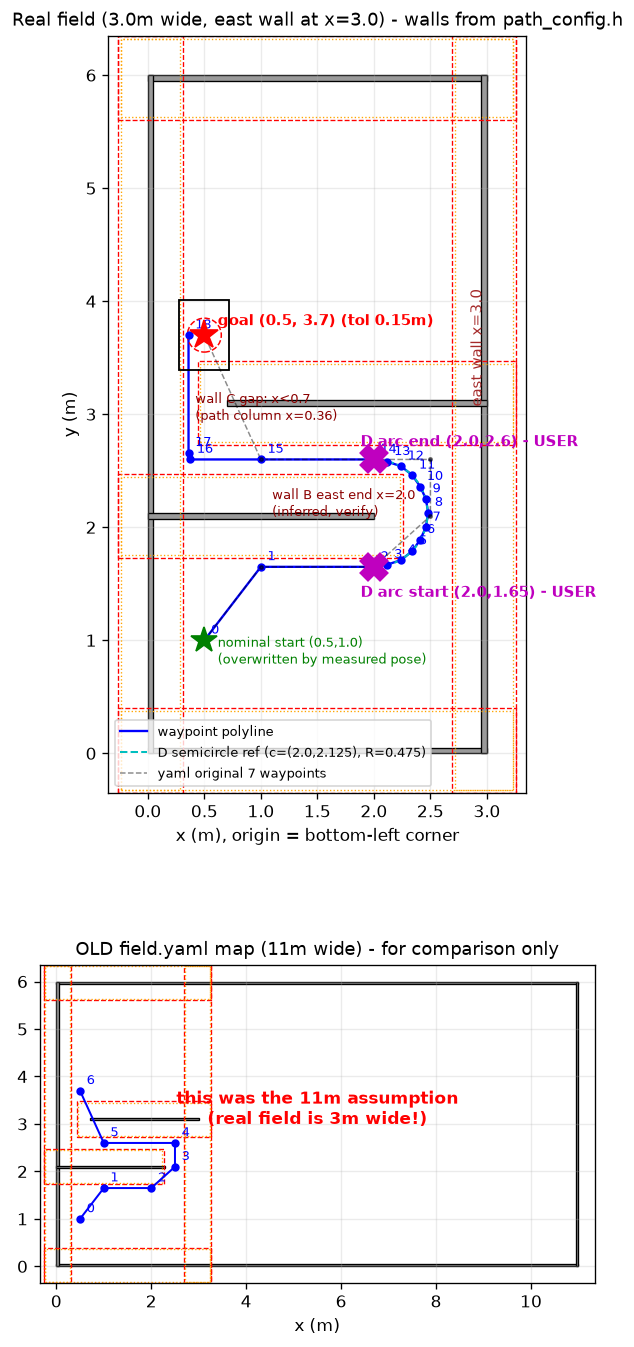
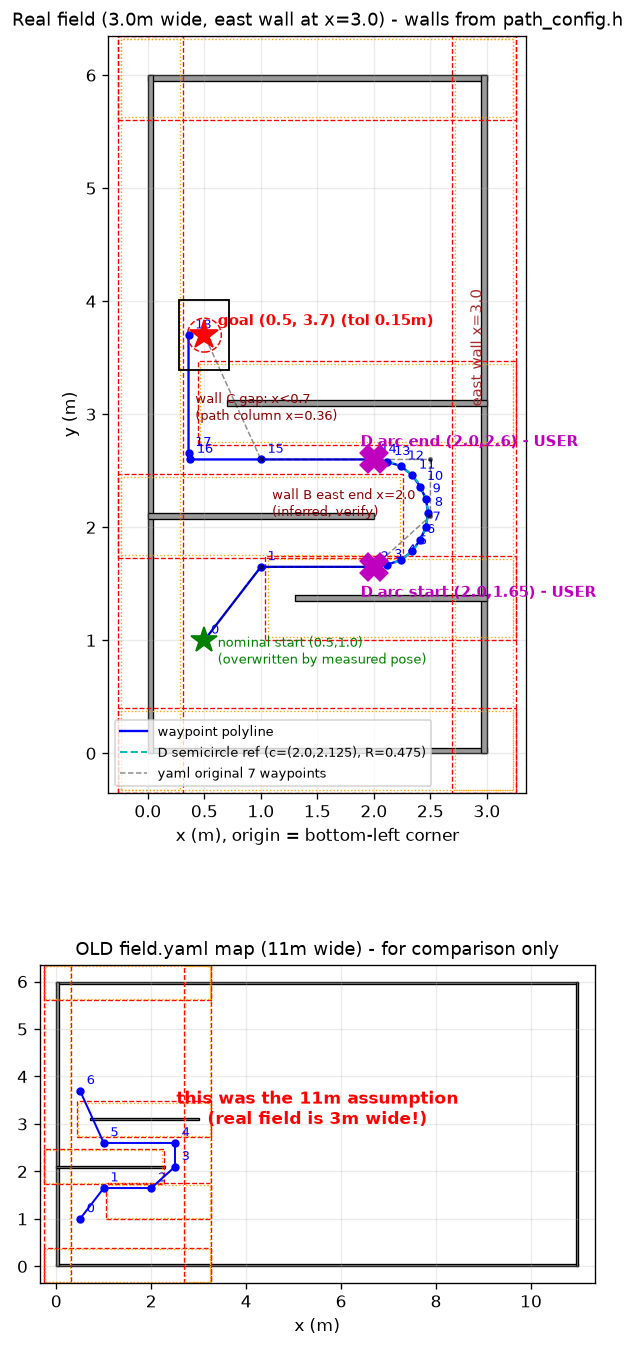
feat: 地图加入墙1(通道1 南侧分隔墙),暴露与通道1 的几何冲突待实测确认
用户反馈:地图缺少最靠近南边的通道墙1(即 field.yaml 中被注释的 wall_A)。

修改:
1. PATH_WALLS_TABLE 加入 wall_A {1.30, 1.35, 3.00, 1.40}(field.yaml
   反推值,墙数 6->7),地图与报告立即可见;
2. 修复 wall_A 行丢失的宏续行符(此前靠注释跨行侥幸拼接,armclang
   下不可靠);
3. map_check.py:报告新增"通道1 对墙1(墙A)"净距项,并修正墙B/墙C
   净距取墙逻辑(按 y 范围定位内墙,不再被最近墙干扰)。

核对结果(暴露的真实冲突):
- 通道1 中心线 y=1.65 到墙1 顶部(y=1.40)仅 25.0cm,车体半长
  30.9cm -> 车体余量 -5.8cm,按 yaml 坐标通道1 走不通;
- 仿真验证:BUILD 验收拒绝(STOP_BUILD,安全停机,不撞墙也不启动);
- 用户确认点位基本正确 -> 真实墙1 应比 yaml 值更低或更短,
  待实测坐标后更新墙表即可恢复通行。

Changed region(s): [[0.4196, 0.4053, 0.7492, 0.4677], [0.8091, 0.4365, 0.8391, 0.4677], [0.1498, 0.8731, 0.1798, 0.9042]]

diff --git a/user/path_planner/map_check.py b/user/path_planner/map_check.py
@@ -157,17 +157,25 @@ wc = min((w for w in REAL if w[0] > 0.36), key=lambda w: w[0])
 d_gap_c = rect_dist(wc, 0.36, 3.10)   # y=3.10 落在墙C y 范围内
 print(f"  墙C缺口列 x=0.36 到墙C(xmin={wc[0]:.2f}): {d_gap_c * 100:.1f} cm"
       f"(车体余量 {(d_gap_c - ROBOT_W / 2) * 100:.1f} cm)")
-d_b = wall_dist(REAL, 1.0, 2.60)
-print(f"  通道2 (1.0,2.60) 到墙B: {d_b * 100:.1f} cm"
+# 按 y 范围定位内墙:墙B(y≈2.075-2.125)、墙A(y≈1.35-1.40)
+wb = min((w for w in REAL if 2.0 < w[1] < 2.2), key=lambda w: w[1])
+wa = min((w for w in REAL if 1.0 < w[1] < 2.0), key=lambda w: w[1])
+d_b = rect_dist(wb, 1.0, 2.60)
+print(f"  通道2 (1.0,2.60) 到墙B(ymin={wb[1]:.2f}): {d_b * 100:.1f} cm"
       f"(车体余量 {(d_b - ROBOT_L / 2) * 100:.1f} cm)")
-d_b1 = wall_dist(REAL, 2.0, 1.65)
-print(f"  通道1 (2.0,1.65) 到墙B: {d_b1 * 100:.1f} cm"
+d_b1 = rect_dist(wb, 2.0, 1.65)
+print(f"  通道1 (2.0,1.65) 到墙B(ymin={wb[1]:.2f}): {d_b1 * 100:.1f} cm"
       f"(车体余量 {(d_b1 - ROBOT_L / 2) * 100:.1f} cm)")
+# 墙A(通道墙1,最南侧内墙):通道1 中心线 y=1.65 对其南侧净距
+d_a = rect_dist(wa, 2.0, 1.65)
+print(f"  通道1 (2.0,1.65) 到墙1(墙A, ymax={wa[3]:.2f}): {d_a * 100:.1f} cm"
+      f"(车体余量 {(d_a - ROBOT_L / 2) * 100:.1f} cm"
+      + (" — 按 yaml 坐标通道1 走不通!需实测墙1 真实位置" if d_a < ROBOT_L / 2 else ")"))
 d_goal = math.hypot(WP[-1][0] - GOAL[0], WP[-1][1] - GOAL[1])
 print(f"  末路点 {WP[-1][0]:.2f},{WP[-1][1]:.2f} 到终点 {GOAL}: {d_goal * 100:.1f} cm"
       f"(到达容差 {TOL * 100:.0f} cm,{'OK' if d_goal <= TOL else '超容差!'})")
 print("=" * 72)
-print("注意: 墙B东端 x=2.0 与墙C东端延伸到东墙为反推值,需实车量测确认。")
+print("注意: 墙1(墙A)、墙B东端 x=2.0 与墙C东端延伸到东墙均为反推值,需实车量测确认。")
 
 # ---------------------------------------------------------------- 画图
 import matplotlib
